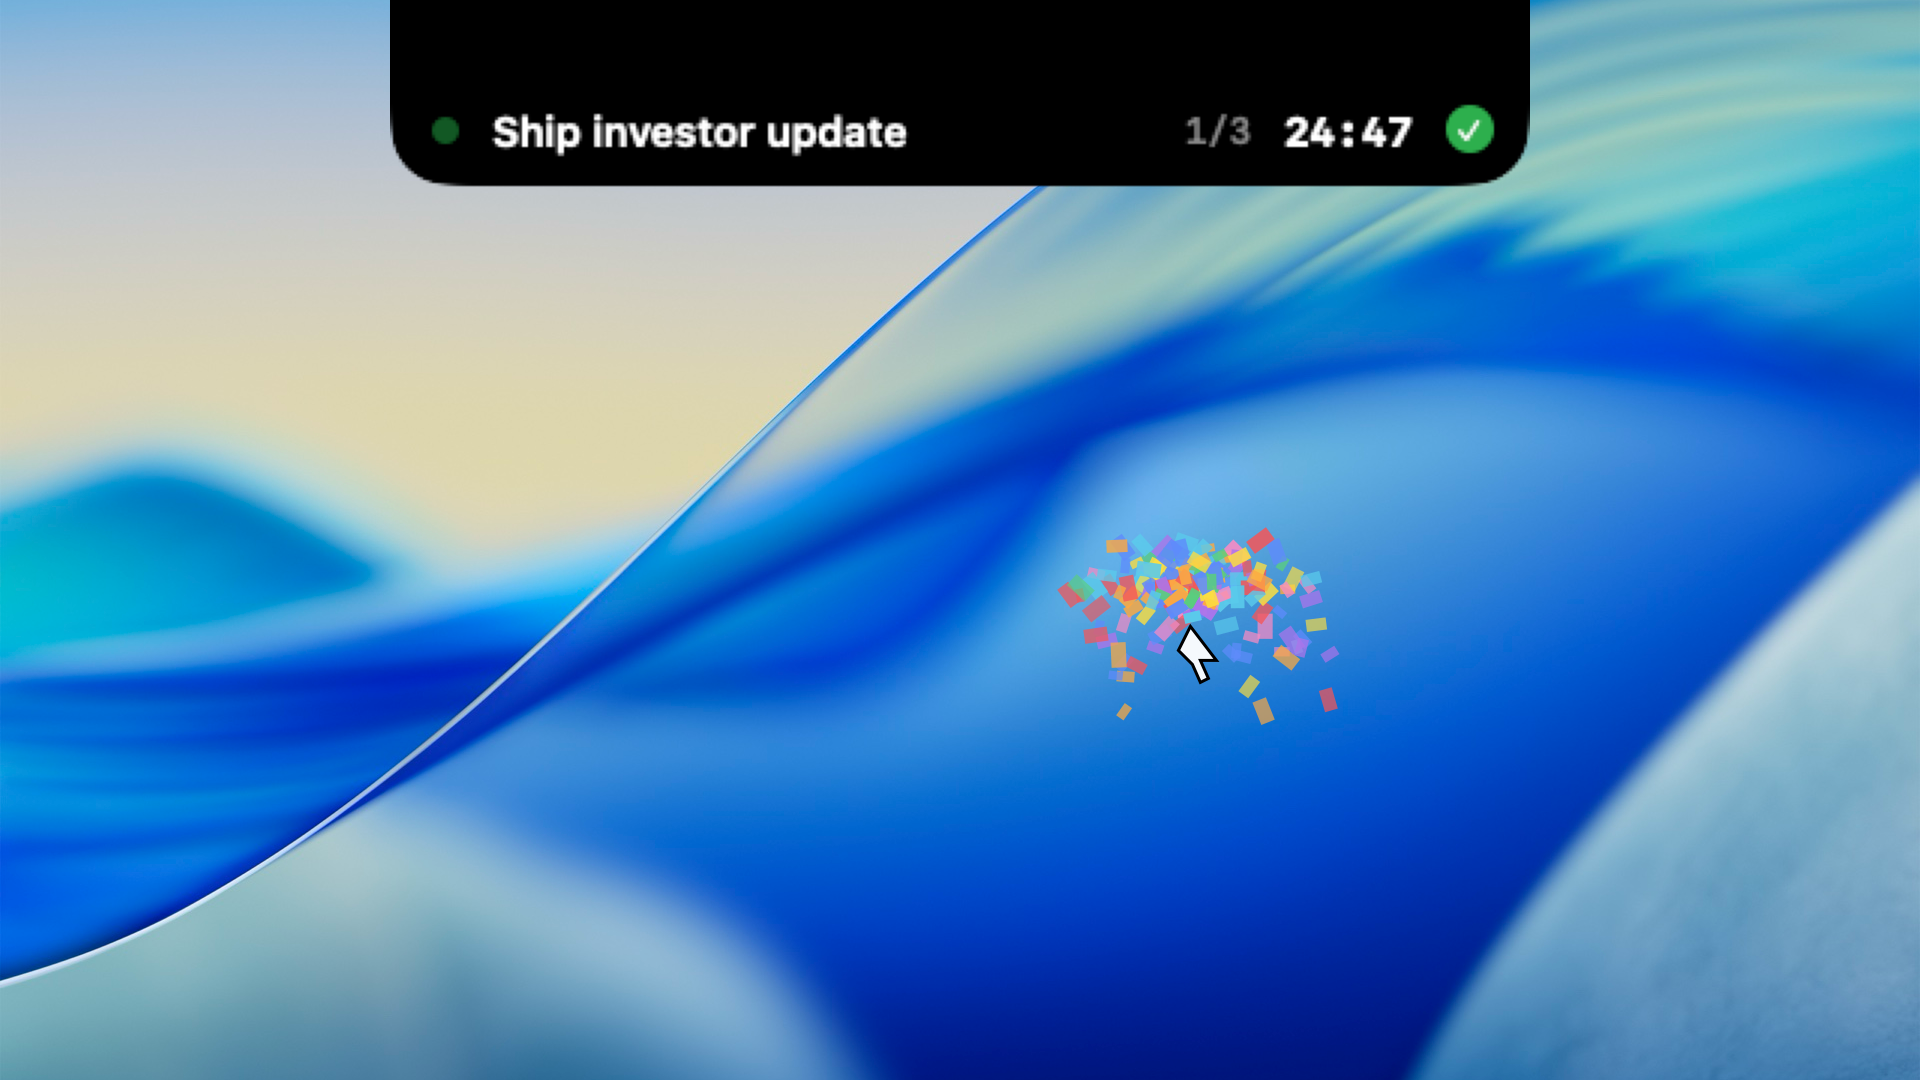
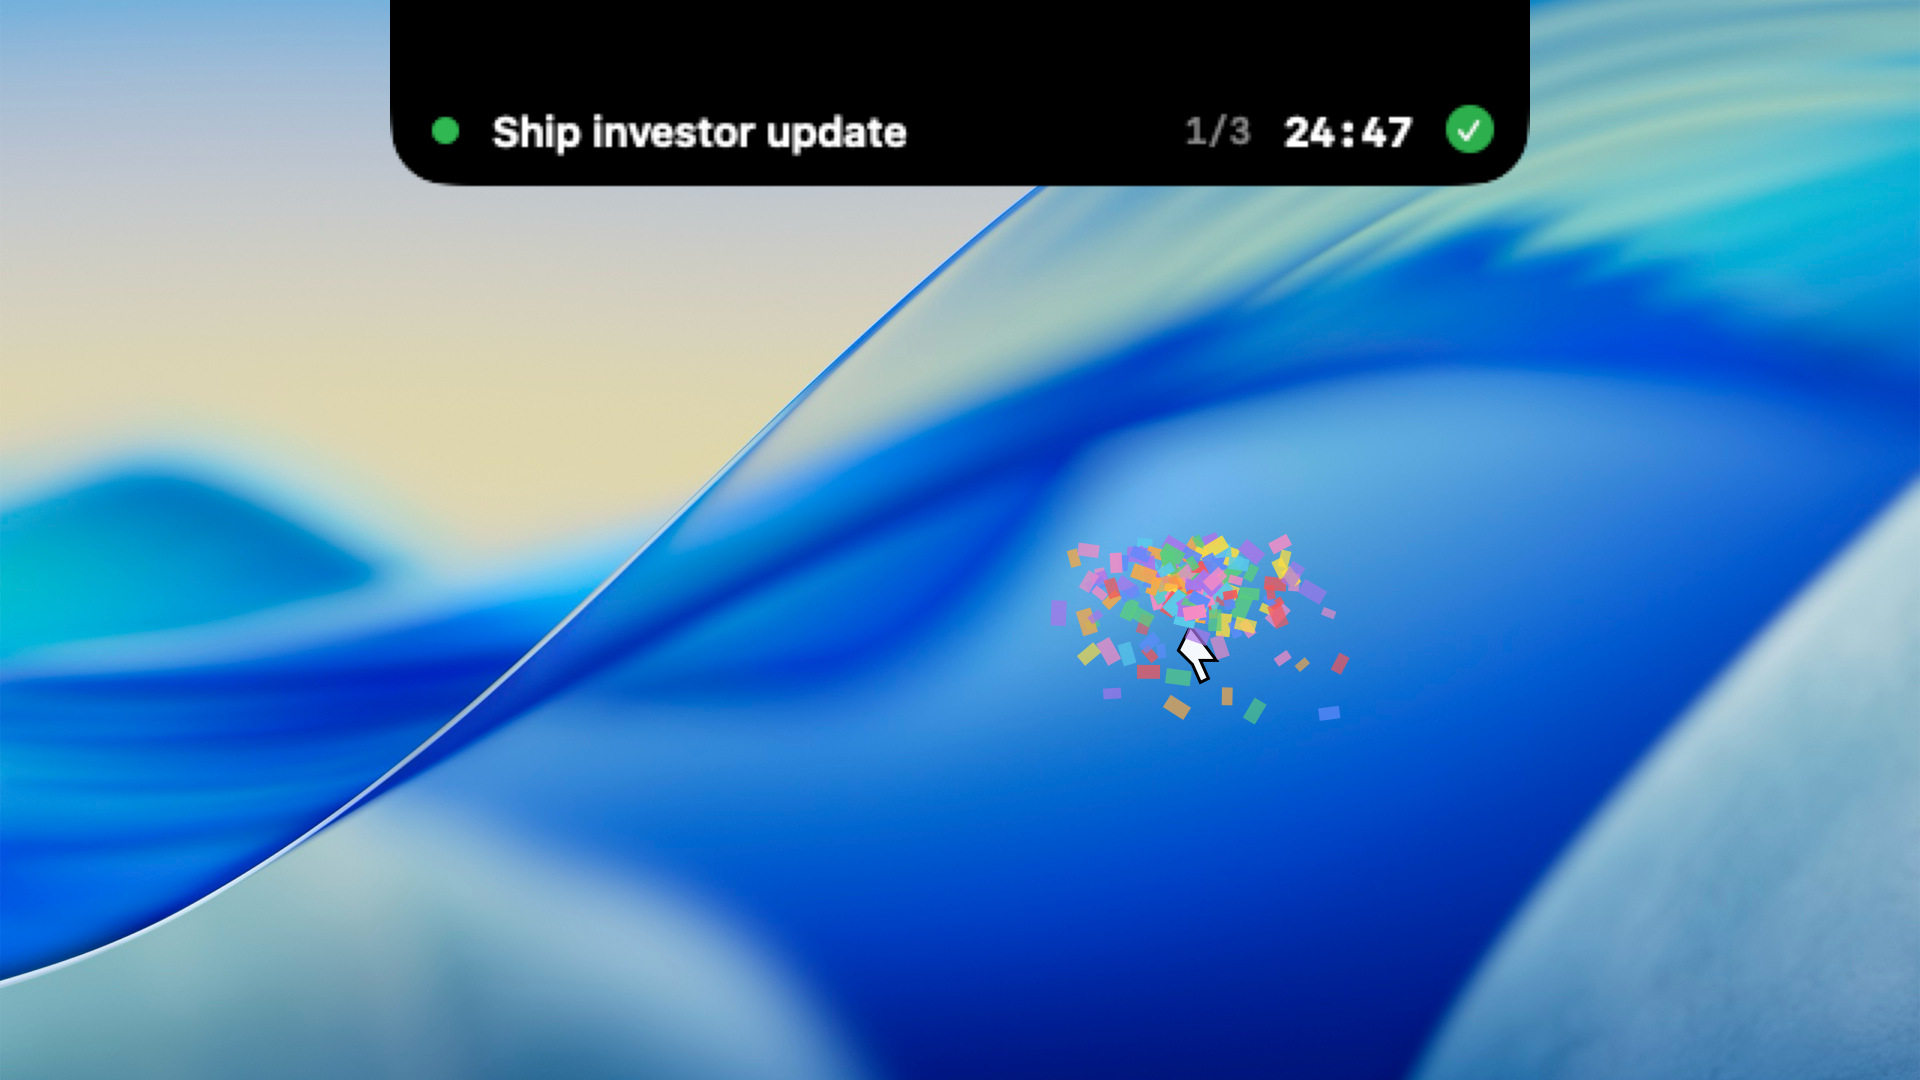
screenshots: use preset-valid times so all 5 rows show highlighted selections

Changed region(s): [[0.5312, 0.4889, 0.7188, 0.6722], [0.2188, 0.0917, 0.25, 0.1528]]

diff --git a/Sources/NotchMVP/ScreenshotGenerator.swift b/Sources/NotchMVP/ScreenshotGenerator.swift
@@ -49,11 +49,11 @@ enum ScreenshotGenerator {
         case .inputEmpty:
             break
         case .inputFilled:
-            draft.tasks[0] = TaskItem(title: "Ship investor update", minutes: 45, priority: .high)
-            draft.tasks[1] = TaskItem(title: "Review PR #142",       minutes: 25, priority: .medium)
+            draft.tasks[0] = TaskItem(title: "Ship investor update", minutes: 30, priority: .high)
+            draft.tasks[1] = TaskItem(title: "Review PR #142",       minutes: 15, priority: .medium)
             draft.tasks[2] = TaskItem(title: "Draft board deck",     minutes: 60, priority: .high)
-            draft.tasks[3] = TaskItem(title: "Design review",        minutes: 30, priority: .medium)
-            draft.tasks[4] = TaskItem(title: "Inbox zero",           minutes: 15, priority: .low)
+            draft.tasks[3] = TaskItem(title: "Design review",        minutes: 10, priority: .medium)
+            draft.tasks[4] = TaskItem(title: "Inbox zero",           minutes: 5,  priority: .low)
         case .active, .confetti:
             let tasks = [
                 TaskItem(title: "Ship investor update", minutes: 45, priority: .high),